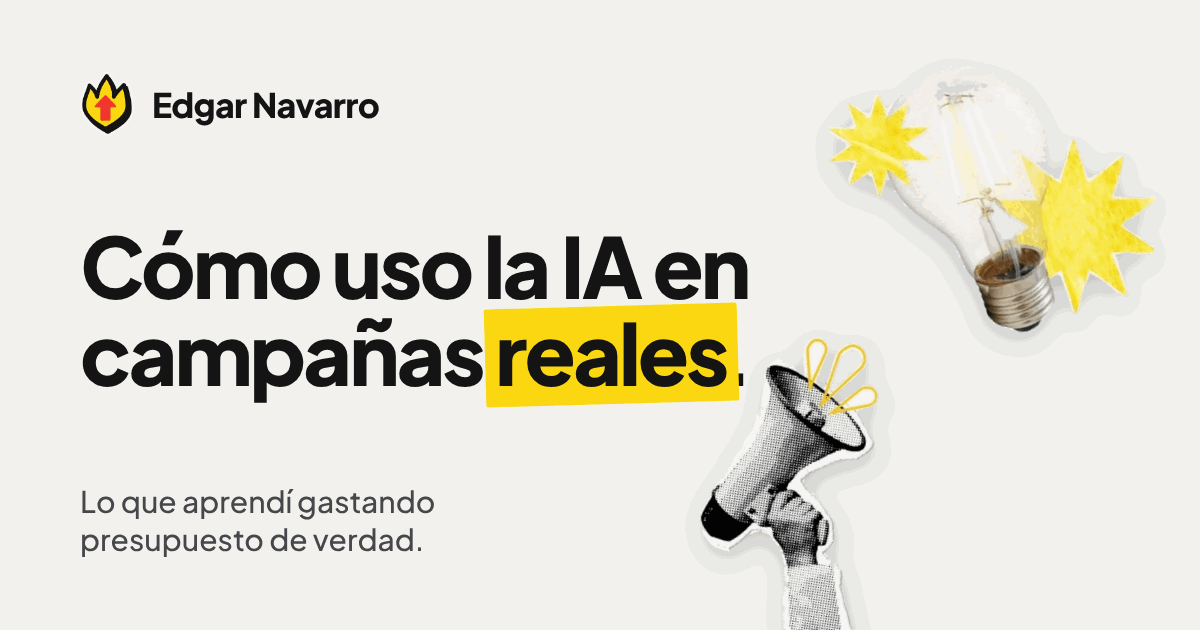
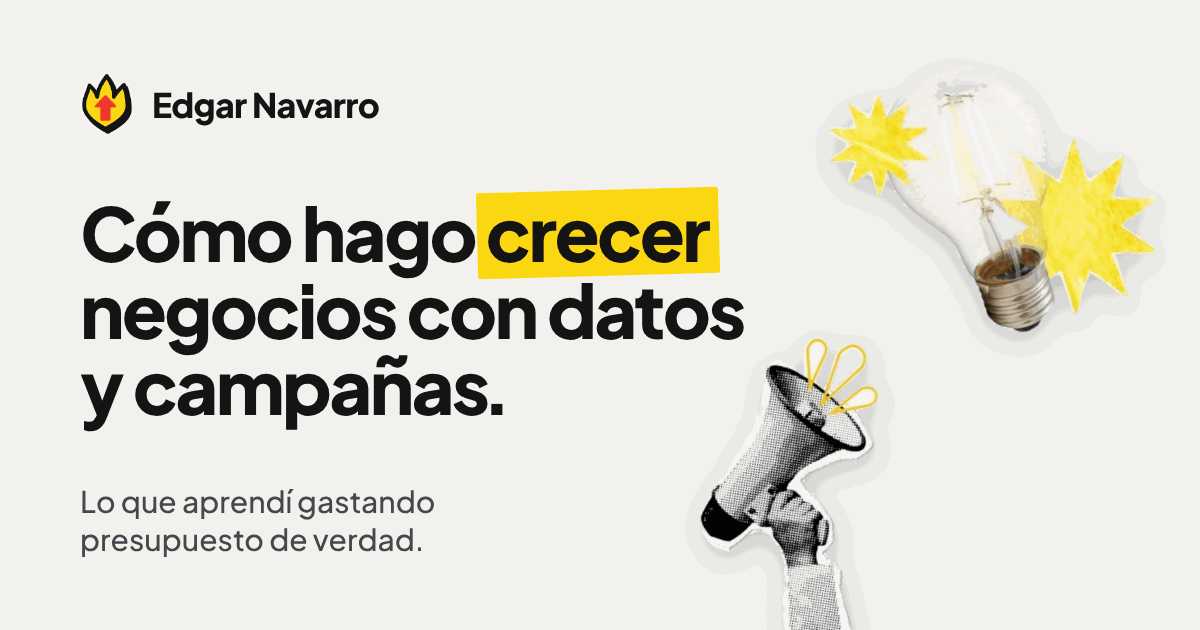
Textos: Edgar se presenta como growth marketer
Claude-Session: https://claude.ai/code/session_01KaRXv1b2gyaM7JHWDzqRp2

Changed region(s): [[0.0617, 0.2714, 0.6475, 0.6937]]

diff --git a/src/data/site.ts b/src/data/site.ts
@@ -30,15 +30,15 @@ export interface JourneyStep {
 
 export const site = {
   name: 'Edgar Navarro',
-  title: 'Edgar Navarro · Marketing con IA, explicado fácil',
+  title: 'Edgar Navarro · Growth marketing, explicado fácil',
   description:
-    'Llevo más de 7 años haciendo campañas en Meta y Google. Aquí cuento cómo uso la IA en ese trabajo: lo que funciona, lo que no y cuánto cuesta.',
-  headline: 'Cómo uso la IA en campañas reales.',
-  headlineHighlight: 'reales', // palabra del titular con tira amarilla de collage
+    'Soy growth marketer: ayudo a negocios a conseguir más clientes con campañas, datos y automatización. Aquí cuento cómo lo hago: lo que funciona, lo que no y cuánto cuesta.',
+  headline: 'Cómo hago crecer negocios con datos y campañas.',
+  headlineHighlight: 'crecer', // palabra del titular con tira amarilla de collage
   greeting: 'Hola, soy Edgar Navarro',
   motto: 'Lo que aprendí gastando presupuesto de verdad.', // lema del logo (pie de página e imagen para redes)
   intro:
-    'Llevo más de 7 años haciendo campañas de publicidad en Meta y Google. Aquí te cuento cómo uso la IA en ese trabajo, paso a paso y con los problemas incluidos.',
+    'Soy growth marketer: ayudo a negocios a conseguir más clientes con campañas en Meta y Google, datos y automatización. Llevo más de 7 años haciéndolo y aquí te cuento cómo, con los problemas incluidos.',
 
   social: {
     // Deja vacío lo que aún no exista: el enlace se oculta solo.
@@ -90,7 +90,7 @@ export const about = {
   lead: 'De día hago campañas de publicidad. De noche, automatizaciones.',
   text: [
     'En mi trabajo hay una pregunta que se repite: ¿cuánto cuesta conseguir un cliente? Es lo primero que miro en cualquier campaña.',
-    'Aquí comparto lo que voy probando con la IA. Lo que funciona lo cuento, y lo que no, también.',
+    'Aquí comparto lo que voy probando para que un negocio crezca, con la IA como una herramienta más. Lo que funciona lo cuento, y lo que no, también.',
   ],
   mottoLabel: 'Mi regla para todo lo que publico',
   motto: 'Lo que funciona, lo que no y cuánto cuesta.',

diff --git a/scripts/og.html b/scripts/og.html
@@ -19,7 +19,7 @@
   }
   .brand { display: flex; align-items: center; gap: 18px; font-size: 34px; font-weight: 800; letter-spacing: -0.02em; }
   .mark { width: 54px; height: 64px; }
-  h1 { font-size: 84px; line-height: 1.04; letter-spacing: -0.035em; font-weight: 800; max-width: 720px; }
+  h1 { font-size: 74px; line-height: 1.04; letter-spacing: -0.035em; font-weight: 800; max-width: 700px; }
   .hl { position: relative; z-index: 0; white-space: nowrap; }
   .hl::before { content: ''; position: absolute; z-index: -1; inset: 0.08em -0.14em 0.02em -0.12em; background: #fcd812; transform: rotate(-1.6deg); border-radius: 2px; }
   .dot { margin-left: -0.08em; }
@@ -33,7 +33,7 @@
   <img class="piece bulb" src="../public/collage/bombilla-estrellas.webp" alt="" />
   <img class="piece mega" src="../public/collage/megafono.webp" alt="" />
   <div class="brand"><img class="mark" src="../public/brand/llama.webp" alt="" />Edgar Navarro</div>
-  <h1>Cómo uso la IA en campañas <span class="hl">reales</span><span class="dot">.</span></h1>
+  <h1>Cómo hago <span class="hl">crecer</span> negocios con datos y campañas<span class="dot">.</span></h1>
   <p class="sub">Lo que aprendí gastando presupuesto de verdad.</p>
 </body>
 </html>

diff --git a/CLAUDE.md b/CLAUDE.md
@@ -10,7 +10,8 @@ Coca-Cola FEMSA, Avior Airlines, Honeywell, Cruz Roja, entre otras). Reducciones
 Herramientas: Google Ads, Meta Ads, GA4, Looker Studio, n8n, LLMs y OpenRouter.
 LinkedIn: https://www.linkedin.com/in/edgnavarros
 
-Está creando una marca personal sobre **marketing real con IA**: paid media, datos y automatización
+Está creando una marca personal como **growth marketer** (nov. 2026: Edgar prefiere presentarse así
+antes que como experto en IA; la IA es una herramienta más). Antes se planteó como **marketing real con IA**: paid media, datos y automatización
 explicados en videos de YouTube de ~7 minutos, con números reales y plantillas de n8n descargables.
 Inspiración: fazt.dev (lo mismo, pero para desarrollo con IA).
 
@@ -30,7 +31,8 @@ Inspiración: fazt.dev (lo mismo, pero para desarrollo con IA).
 - Idioma: español neutro.
 - **Voz de Edgar (nov. 2026):** los textos se reescribieron con la skill `escribir-como-edgar`
   (artesano, no gurú: calmado, sin promesas, los problemas se llaman problemas, frases cortas).
-  Úsala para cualquier texto nuevo. Titular actual: "Cómo uso la IA en campañas reales."
+  Úsala para cualquier texto nuevo. Titular actual: "Cómo hago crecer negocios con datos y campañas."
+  En la introducción se presenta como "growth marketer" y lo explica en la misma frase.
 - **No cambies el concepto visual, los textos ni el tono sin preguntar a Edgar.** Si algo es mejorable,
   propónlo primero.
 - No añadas dependencias innecesarias: la web tiene que seguir siendo ligera.
